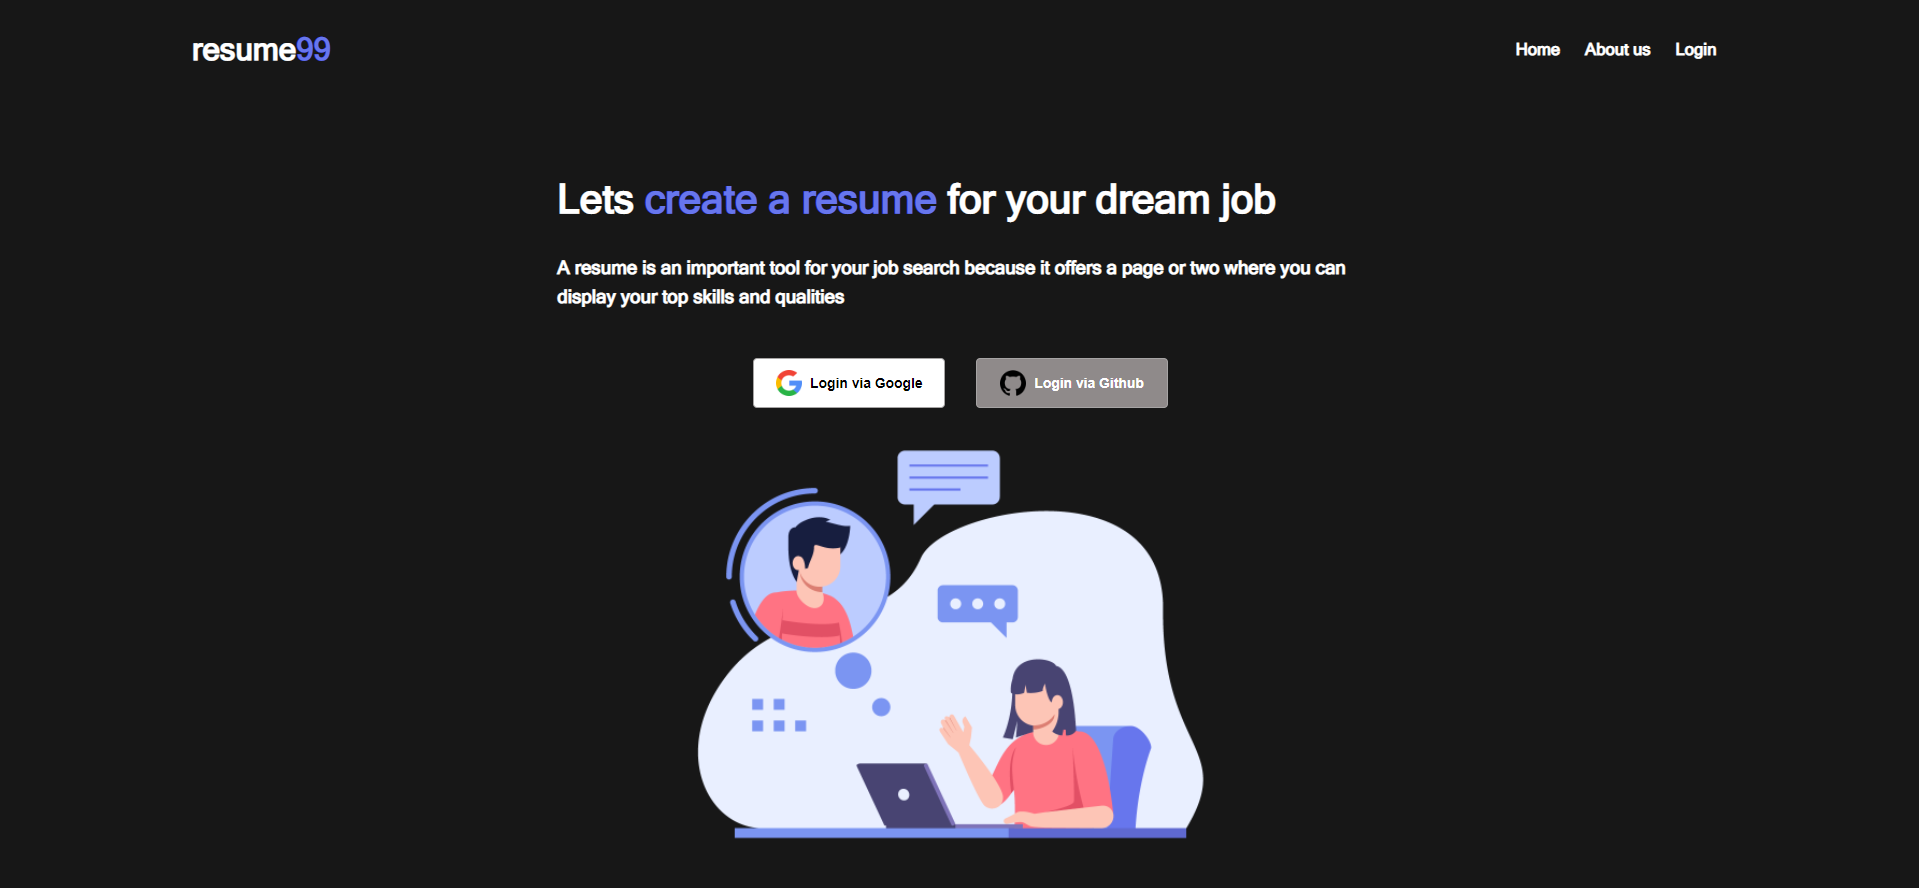
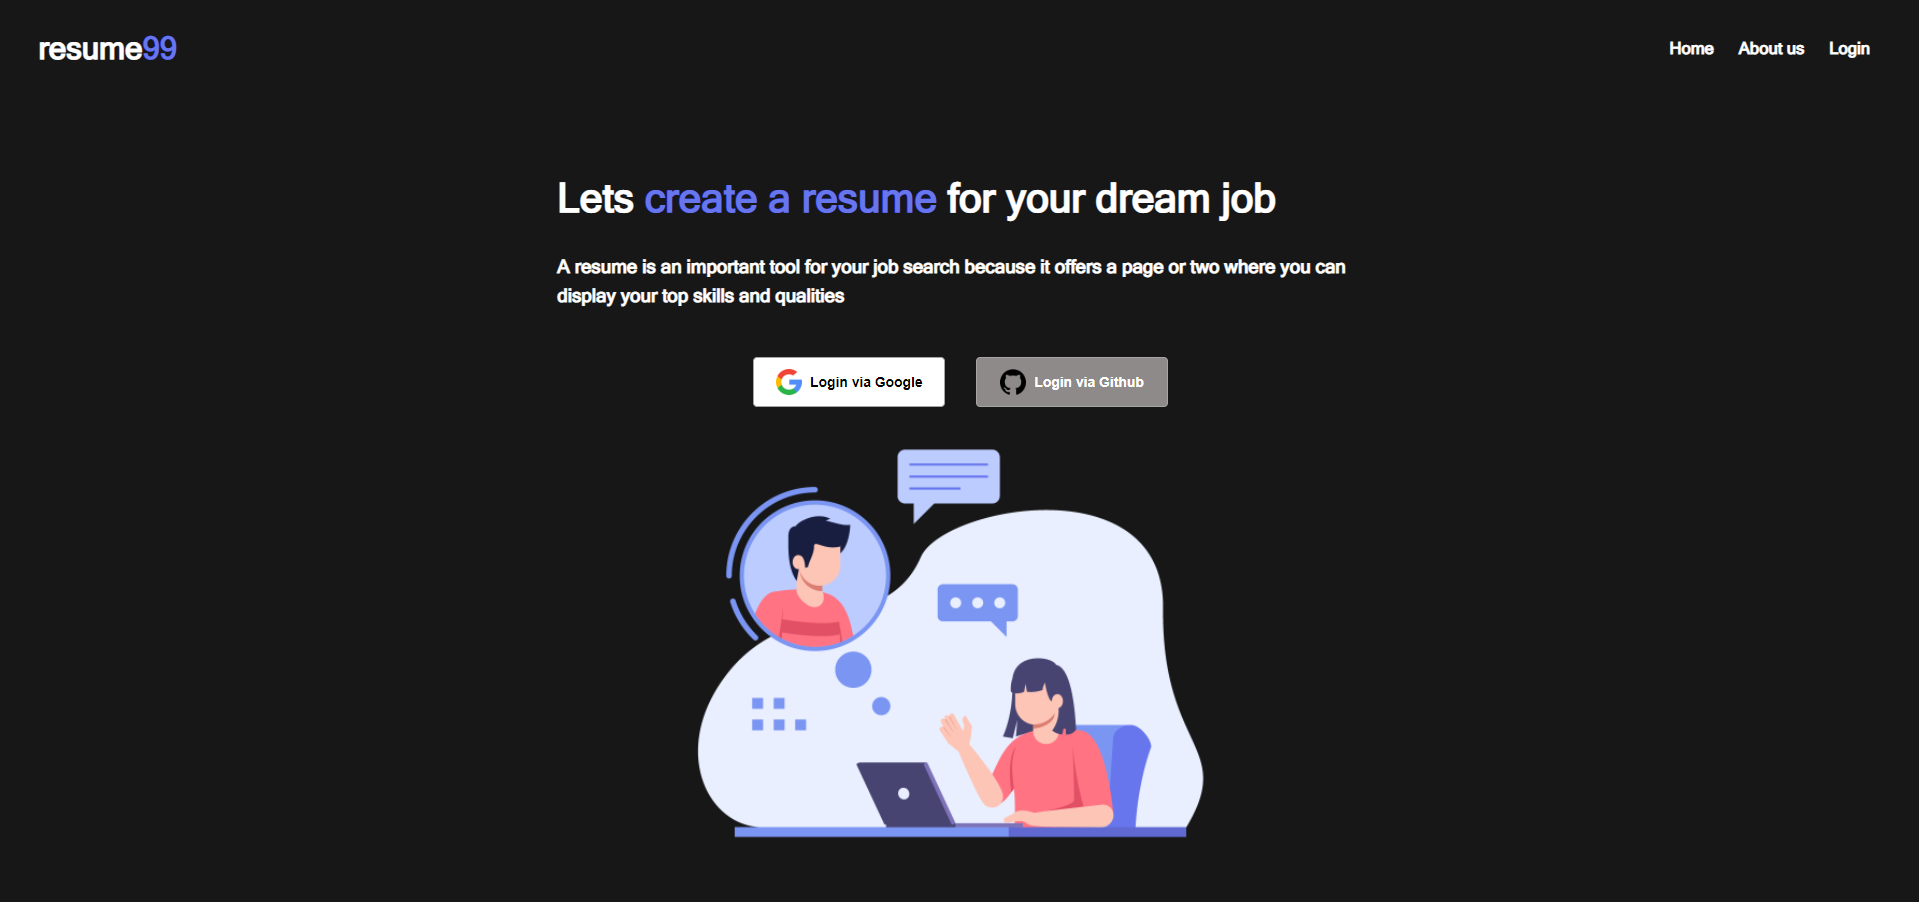
commit navbar changes

diff --git a/public/index.html b/public/index.html
@@ -10,34 +10,11 @@
       content="Web site created using create-react-app"
     />
     <link rel="apple-touch-icon" href="%PUBLIC_URL%/logo192.png" />
-    <!--
-      manifest.json provides metadata used when your web app is installed on a
-      user's mobile device or desktop. See https://developers.google.com/web/fundamentals/web-app-manifest/
-    -->
     <link rel="manifest" href="%PUBLIC_URL%/manifest.json" />
-    <!--
-      Notice the use of %PUBLIC_URL% in the tags above.
-      It will be replaced with the URL of the `public` folder during the build.
-      Only files inside the `public` folder can be referenced from the HTML.
-
-      Unlike "/favicon.ico" or "favicon.ico", "%PUBLIC_URL%/favicon.ico" will
-      work correctly both with client-side routing and a non-root public URL.
-      Learn how to configure a non-root public URL by running `npm run build`.
-    -->
     <title>React App</title>
   </head>
   <body>
     <noscript>You need to enable JavaScript to run this app.</noscript>
     <div id="root"></div>
-    <!--
-      This HTML file is a template.
-      If you open it directly in the browser, you will see an empty page.
-
-      You can add webfonts, meta tags, or analytics to this file.
-      The build step will place the bundled scripts into the <body> tag.
-
-      To begin the development, run `npm start` or `yarn start`.
-      To create a production bundle, use `npm run build` or `yarn build`.
-    -->
   </body>
 </html>

diff --git a/src/components/LoggedNav.js b/src/components/LoggedNav.js
@@ -18,7 +18,7 @@ export const LoggedNav = (props) => {
 
   return (
 
-    <div className='navbar' style={{ display: 'flex', flexDirection: 'row', alignItems: 'center', justifyContent: 'space-between', padding: '0 10vw' }}>
+    <div className='navbar' style={{ display: 'flex', flexDirection: 'row', alignItems: 'center', justifyContent: 'space-between', padding: '0 2vw' }}>
       <div className="logo">
         <p style={{ fontWeight: '700', fontSize: '30px', color: 'white' }}>resume<span style={{ color: '#1976d2' }}>99</span></p>
       </div>

diff --git a/src/components/Navbar.js b/src/components/Navbar.js
@@ -2,7 +2,7 @@ import React from 'react'
 
 export const Navbar = () => {
   return (
-    <div className='navbar' style={{display:'flex',flexDirection:'row',alignItems:'center',justifyContent:'space-between',padding:'0 10vw'}}>
+    <div className='navbar' style={{display:'flex',flexDirection:'row',alignItems:'center',justifyContent:'space-between',padding:'0 2vw'}}>
         <div className="logo">
             <p style={{fontWeight:'700',fontSize:'30px',color:'white'}}>resume<span style={{color:'rgb(103,118,237)'}}>99</span></p>
         </div>
